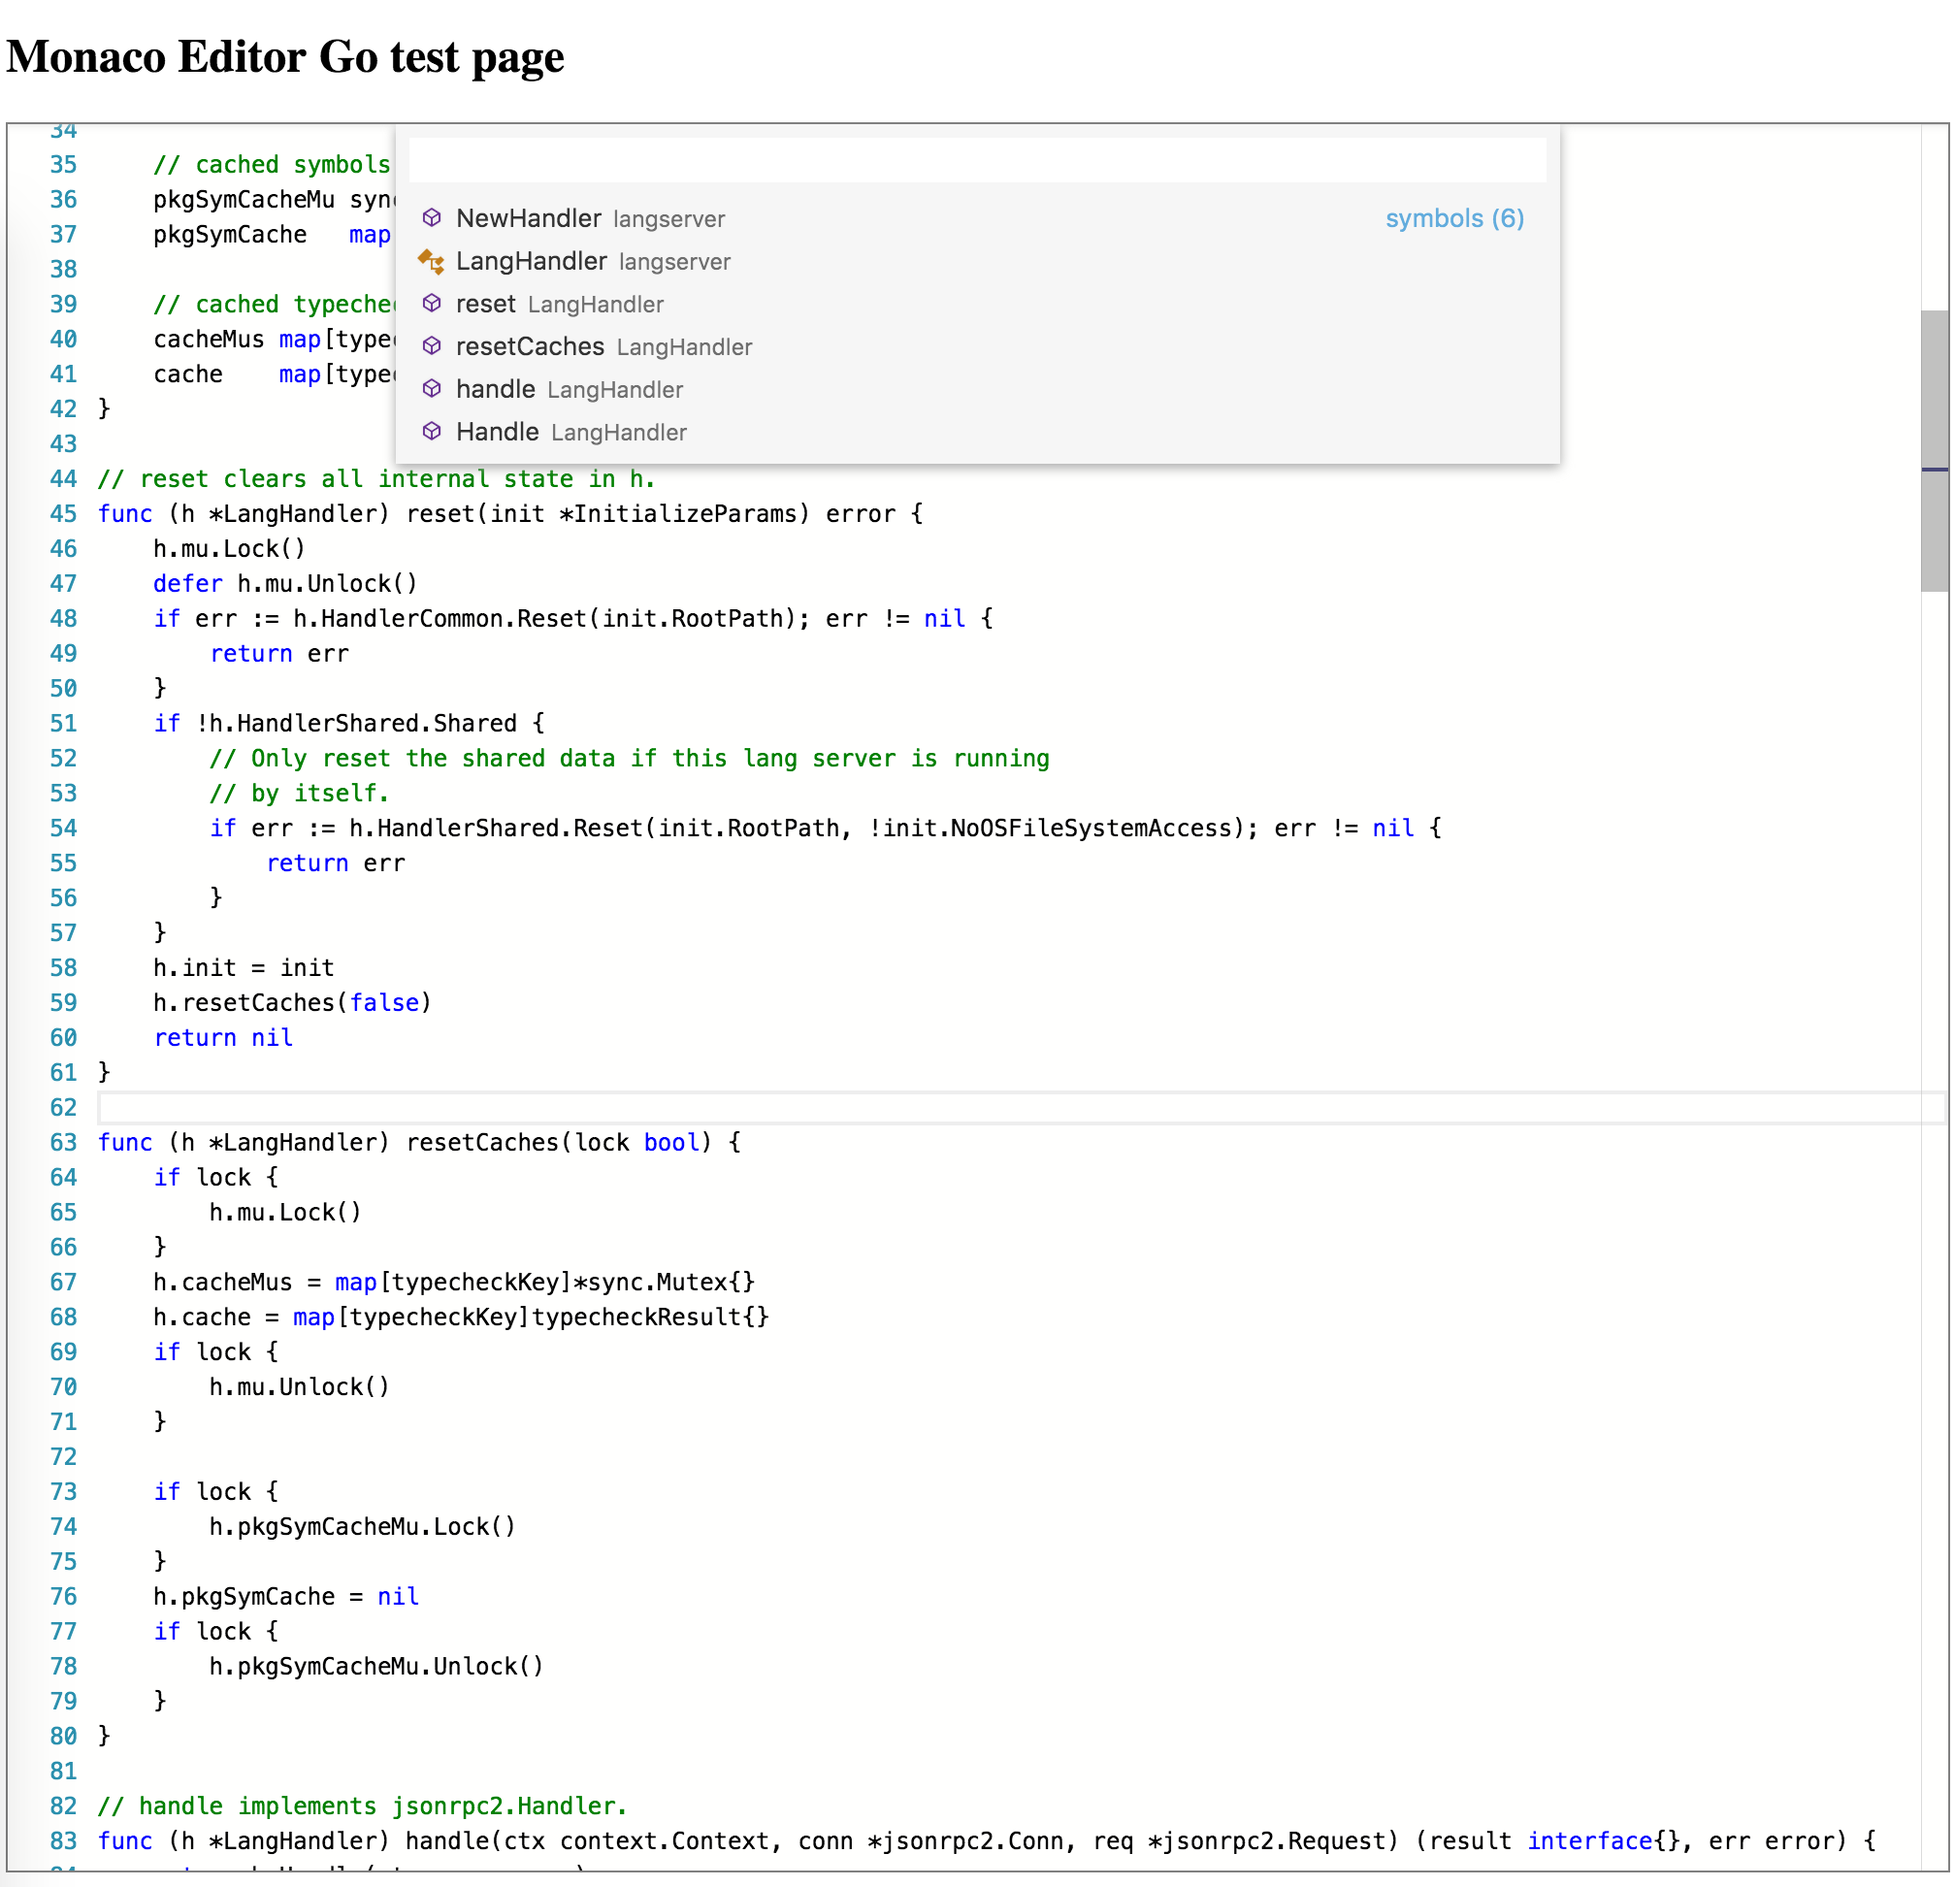
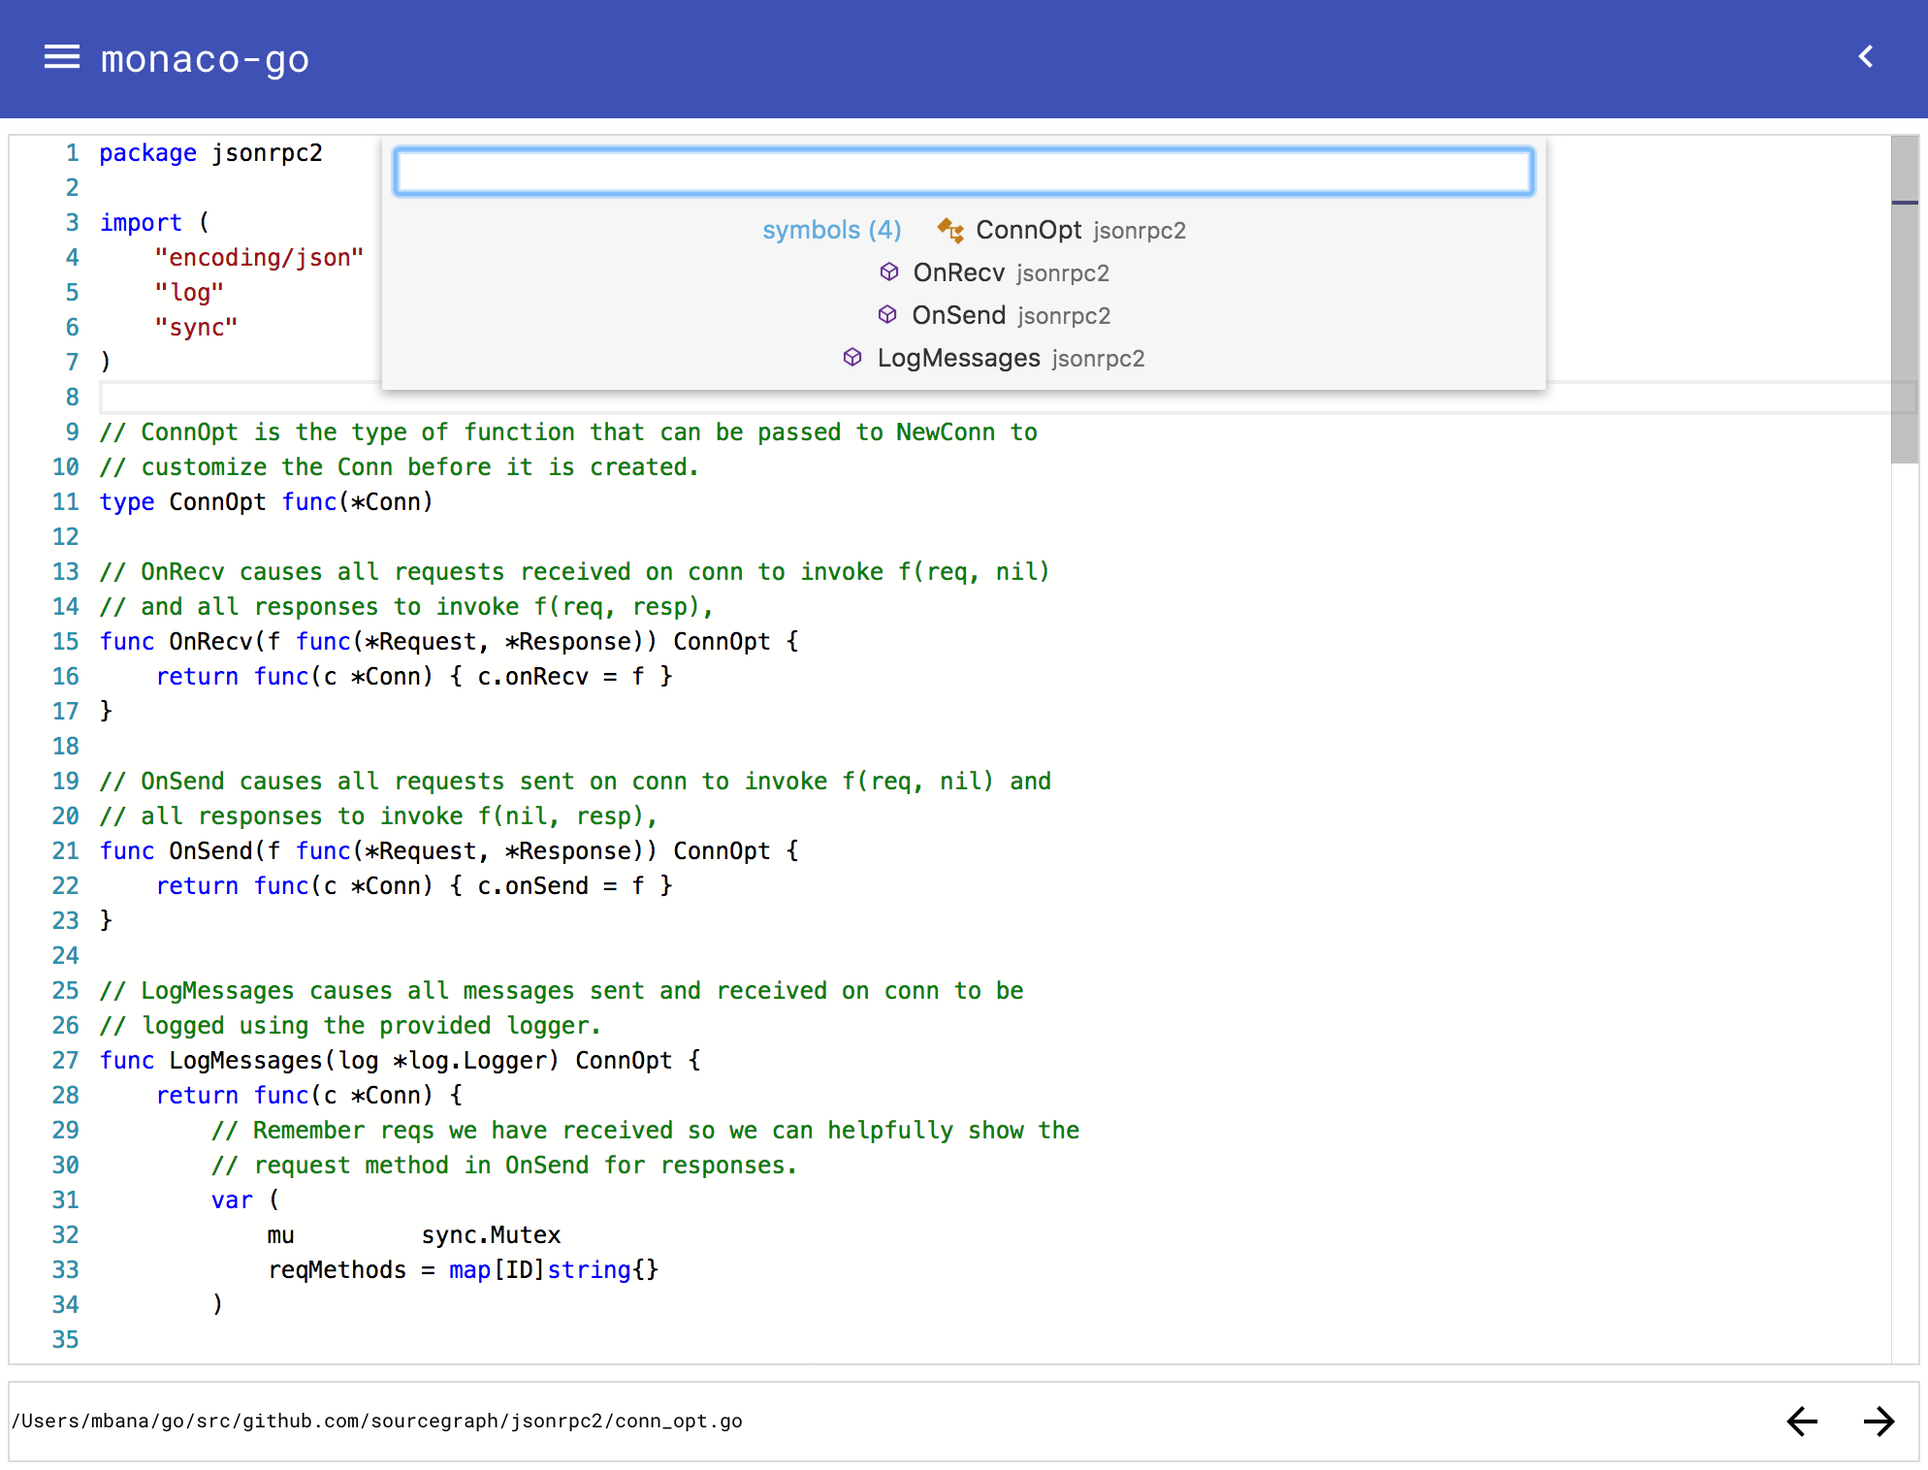
* link to new images for the interface. * remove jelkyl no longer needed as site is hosted on azure.

Changed region(s): [[0.0, 0.0, 1.0, 1.0], [0.4678, 0.434, 0.6237, 0.465]]

diff --git a/README.md b/README.md
@@ -25,21 +25,42 @@ WebSocket at go-langserver.cloudapp.net:
 `monaco-go`:
 
 * <http://azure.bana.io/monaco-go/>
-* <del><http://go-langserver.cloudapp.net/monaco-go/></del>
-* <del><http://13.65.101.250:8080/monaco-go/></del>
 
 `go-langserver`:
 
 * <ws://azure.bana.io:4389>
-* <del><ws://go-langserver.cloudapp.net:4389></del>
-* <del><ws://13.65.101.250:4389></del>
 
 ### screenshot
 
 ![./images/monaco-go.png](./images/monaco-go.png)
+
+## `textDocument/hover`
+
+![./images/textDocument/hover.png](./images/textDocument/hover.png)
+
+## `textDocument/documentSymbol`
+
+![./images/textDocument/documentSymbol.png](./images/textDocument/documentSymbol.png)
+
+## `textDocument/definition`
+
+![./images/textDocument/definition.png](./images/textDocument/definition.gif)
+
+**todo:** make animated gif of new interface.
+
+<!--![./images/textDocument/definition.gif](./images/textDocument/definition.png)-->
+
+## `textDocument/references`
+
+![./images/textDocument/references.png](./images/textDocument/references.png)
+
+## misc
+
+![./images/monaco-go-repos.png](./images/monaco-go-repos.png)
+
 ![./images/monaco-go-langserver-logs.png](./images/monaco-go-langserver-logs.png)
 
-more available in [./docs/EXAMPLES.md](./docs/EXAMPLES.md#screenshots)
+<!--more available in [./docs/EXAMPLES.md](./docs/EXAMPLES.md#screenshots)-->
 
 ## todo/issues:
 
